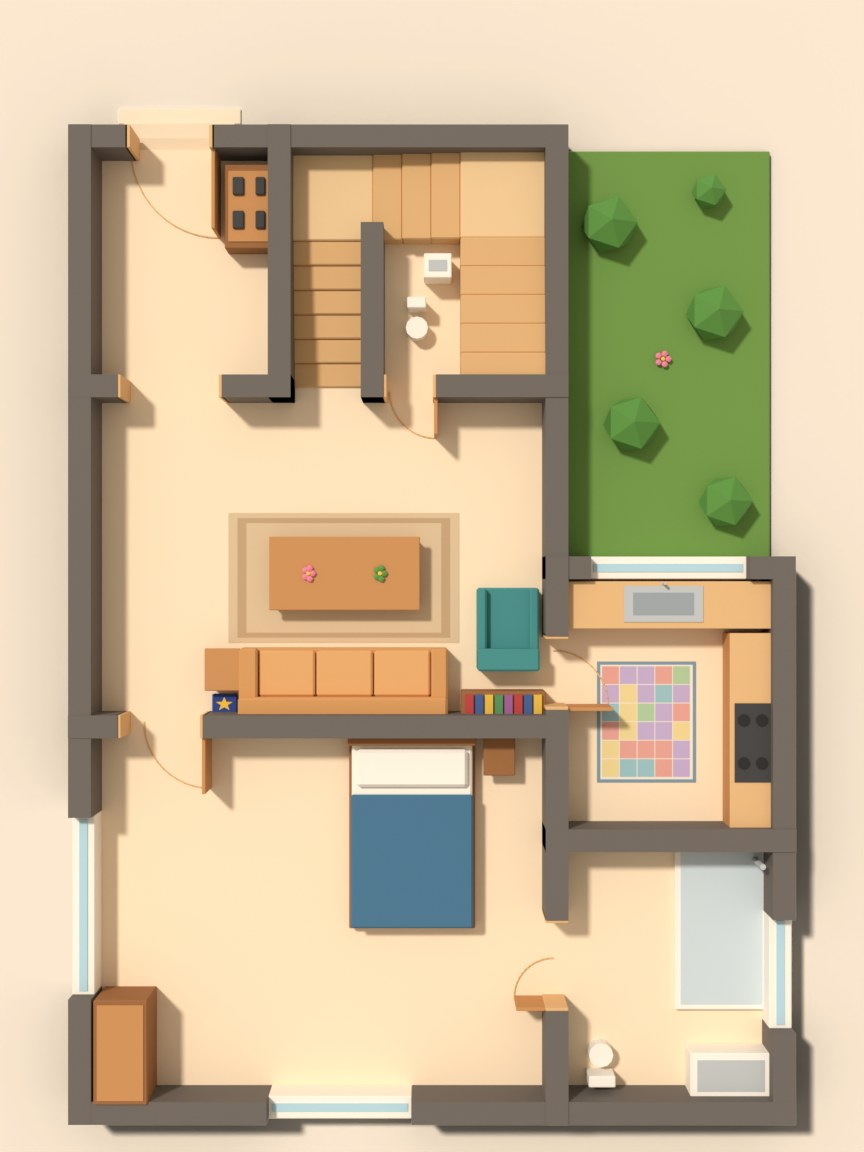
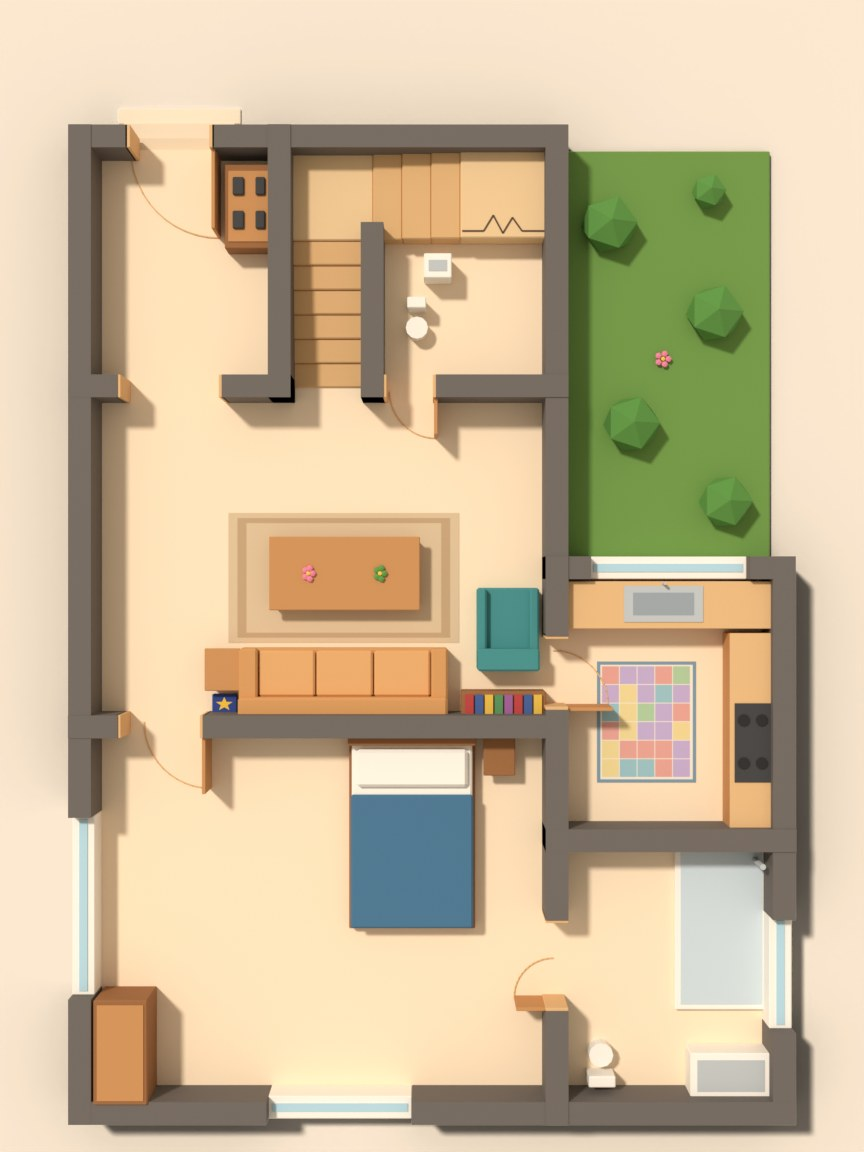
NES: floor-1 map drawn as a plan cut - last stair run left out with a break line, guest bath under the stairs fully visible

Changed region(s): [[0.5, 0.1875, 0.6562, 0.3438]]

diff --git a/games/never-ending-story/src/modules/cutscene/registry.ts b/games/never-ending-story/src/modules/cutscene/registry.ts
@@ -51,7 +51,7 @@ export const ARTWORKS: Artwork[] = [
     characterIds: [],
     prompt: `${STYLE} Top-down clay miniature floor plan of the ground floor of Grandma's modern two-storey house on cream paper, no labels. L-shaped footprint, top of the image is the front. Front door with steps at the left of the top wall into an entrance hall with a shoe rack (top-left). Stairs in the top middle, 0.9 m wide: the foot opens into the middle of the living room's front wall, run 1 (6 treads) climbs toward the front, a flat corner landing, run 2 (3 treads) to the right along the front wall, a second flat landing in the front-right corner, run 3 (5 treads) climbs toward the back; 15 risers. A small guest toilet under runs 2-3, its door right beside the stair foot. An open lawn garden with round bushes beside the house at the top-right (no building there). Living room across the middle: rug, coffee table with two flowers, tan sofa against the back wall facing the front, side table with the blue star box on its left, teal armchair on its right, low bookshelf by the kitchen door. Grandma's bedroom across the back-left, door at the left end of the living room's back wall, bed with its head on the top wall, wardrobe bottom-left, windows on the left and bottom walls. Right wing: kitchen entered from a door near the back of the living room's right wall (counter and sink under a window along its top wall looking onto the garden, stove counter along its right wall, patterned rug by the door), and below it Grandma's en-suite of the same depth, opened only from her bedroom. Used as the house plan and as the case-challenge jigsaw photo.`,
     negative: `${NEGATIVE}, text, labels, letters`,
-    styleNotes: `Generated 2026-11-22 for house v2 phase 1 (docs/design/house-v2-proposal.md). Relaid out 2026-11-23 to the owner-approved L footprint (draft v9): rendered 2026-11-23 as a low-poly clay 3D scene in Blender (top-down camera, soft sun shadows, cream paper) built on the exact layout grid, so walls, doors and windows match the approved plan and stay aligned with the tap spots. Room cameras stand at the door looking in: living-wide looks from the stair foot toward the back (kitchen door on the left of the picture, Grandma's door on the right); kitchen-wide looks from its door toward the right wing's far wall (window and sink on the left = garden side, Grandma's en-suite side on the right). Map spots and the deduction zones in event-core FlowView follow this footprint. ${sheet}`,
+    styleNotes: `Generated 2026-11-22 for house v2 phase 1 (docs/design/house-v2-proposal.md). Relaid out 2026-11-23 to the owner-approved L footprint (draft v9): rendered 2026-11-23 as a low-poly clay 3D scene in Blender (top-down camera, soft sun shadows, cream paper) built on the exact layout grid, so walls, doors and windows match the approved plan and stay aligned with the tap spots. Drawn as an architectural plan cut: the last stair run (over the guest bath) is left out with a break line on the upper landing, so the bath under the stairs is fully visible. Room cameras stand at the door looking in: living-wide looks from the stair foot toward the back (kitchen door on the left of the picture, Grandma's door on the right); kitchen-wide looks from its door toward the right wing's far wall (window and sink on the left = garden side, Grandma's en-suite side on the right). Map spots and the deduction zones in event-core FlowView follow this footprint. ${sheet}`,
     promptSource: 'original',
     version: CUTSCENE_VERSION,
     order: 70,

diff --git a/games/never-ending-story/src/modules/cutscene/GDD.md b/games/never-ending-story/src/modules/cutscene/GDD.md
@@ -54,6 +54,6 @@ core >=0.6.13, character ^1.0.0 ผู้ใช้: โปรล็อก, event
 ## 13. Changelog (ผูกกับเวอร์ชันโมดูล)
 | เวอร์ชัน | แอป | การเปลี่ยนแปลง |
 |---|---|---|
-| 1.0.2 | 0.6.35 | `cutscene-01-p2.jpg` ช่องล่าง: หนูกอดย่ามะลิ (เดิมกอดแม่) ที่ประตูหน้าบ้าน ชุดและผมย่าตรงกับช่องกลาง ช่องบนและกลางคงเดิมแบบไม่บีบอัดซ้ำ `case-01.p2` เหลือตัวละคร grandma, player และแก้ `house-map.jpg` ให้ตรงมุมกล้องของแต่ละห้อง (กล้องยืนที่ประตูมองลงล่างของแผนที่ ซ้ายภาพจึงเป็นขวาแผนที่): ครัวเอาโต๊ะกินข้าวออก เคาน์เตอร์รูปตัว L ชิดผนังขวา (ซิงก์ใต้หน้าต่าง) กับผนังล่าง (เตา) พรมลายใกล้ประตูฝั่งซ้าย (สลับเตากับซิงก์ตามที่เจ้าของเกมขอ มองจากประตูครัวหน้าต่างอยู่ซ้าย ฝั่งห้องนอนย่าอยู่ขวา) ห้องนอนย่าสลับกล่องเป็นกล่องเหลืองซ้าย กล่องดาวขวา ห้องนั่งเล่นย้ายชั้นหนังสือจากผนังขวาไปชิดผนังล่างข้างโซฟา ผังห้องเดิม โซนแผนที่และจุดแตะไม่เปลี่ยน เพิ่ม `house-map-2f.jpg` แผนผังชั้น 2 (ห้องทำงานเหนือครัว ห้องลุงเมฆกับป้า) เอากล่องออกจากห้องนอนย่าใน `house-map.jpg` และกลับภาพ `kitchen-wide.jpg` กับ `kitchen-close.jpg` ซ้ายขวาตามที่เจ้าของเกมขอ ภาพครัวมุมกว้างสลับแจกันกับหม้อ แจกันไปอยู่ใต้ผ้าเช็ดมือให้ตรงกับภาพซูม วาด `house-map.jpg` และ `house-map-2f.jpg` ใหม่ตามผังบ้านทรงตัว L ที่เจ้าของอนุมัติ: สวนโล่งข้างครัว บันไดสามช่วงมีชานพักสองจุด (15 ลูกตั้ง) เริ่มกลางผนังหน้าห้องนั่งเล่นข้างประตูห้องน้ำแขก ชั้น 2 มีระเบียงหน้าซ้าย ตู้เก็บของ ห้องน้ำลุงเมฆซ้อนอยู่บนห้องน้ำย่าขนาดเท่ากัน และห้องทำงานอยู่เหนือครัวเท่านั้น กล่องดาวอยู่เหนือกล่องใบไม้บนผัง ทั้งสองชั้นเรนเดอร์เป็นโมเดล 3D โลว์โพลีสไตล์ดินปั้นแบบแผนที่เดิม ผังและจุดแตะไม่เปลี่ยน |
+| 1.0.2 | 0.6.35 | `cutscene-01-p2.jpg` ช่องล่าง: หนูกอดย่ามะลิ (เดิมกอดแม่) ที่ประตูหน้าบ้าน ชุดและผมย่าตรงกับช่องกลาง ช่องบนและกลางคงเดิมแบบไม่บีบอัดซ้ำ `case-01.p2` เหลือตัวละคร grandma, player และแก้ `house-map.jpg` ให้ตรงมุมกล้องของแต่ละห้อง (กล้องยืนที่ประตูมองลงล่างของแผนที่ ซ้ายภาพจึงเป็นขวาแผนที่): ครัวเอาโต๊ะกินข้าวออก เคาน์เตอร์รูปตัว L ชิดผนังขวา (ซิงก์ใต้หน้าต่าง) กับผนังล่าง (เตา) พรมลายใกล้ประตูฝั่งซ้าย (สลับเตากับซิงก์ตามที่เจ้าของเกมขอ มองจากประตูครัวหน้าต่างอยู่ซ้าย ฝั่งห้องนอนย่าอยู่ขวา) ห้องนอนย่าสลับกล่องเป็นกล่องเหลืองซ้าย กล่องดาวขวา ห้องนั่งเล่นย้ายชั้นหนังสือจากผนังขวาไปชิดผนังล่างข้างโซฟา ผังห้องเดิม โซนแผนที่และจุดแตะไม่เปลี่ยน เพิ่ม `house-map-2f.jpg` แผนผังชั้น 2 (ห้องทำงานเหนือครัว ห้องลุงเมฆกับป้า) เอากล่องออกจากห้องนอนย่าใน `house-map.jpg` และกลับภาพ `kitchen-wide.jpg` กับ `kitchen-close.jpg` ซ้ายขวาตามที่เจ้าของเกมขอ ภาพครัวมุมกว้างสลับแจกันกับหม้อ แจกันไปอยู่ใต้ผ้าเช็ดมือให้ตรงกับภาพซูม วาด `house-map.jpg` และ `house-map-2f.jpg` ใหม่ตามผังบ้านทรงตัว L ที่เจ้าของอนุมัติ: สวนโล่งข้างครัว บันไดสามช่วงมีชานพักสองจุด (15 ลูกตั้ง) เริ่มกลางผนังหน้าห้องนั่งเล่นข้างประตูห้องน้ำแขก ชั้น 2 มีระเบียงหน้าซ้าย ตู้เก็บของ ห้องน้ำลุงเมฆซ้อนอยู่บนห้องน้ำย่าขนาดเท่ากัน และห้องทำงานอยู่เหนือครัวเท่านั้น กล่องดาวอยู่เหนือกล่องใบไม้บนผัง ทั้งสองชั้นเรนเดอร์เป็นโมเดล 3D โลว์โพลีสไตล์ดินปั้นแบบแผนที่เดิม ชั้น 1 ตัดบันไดช่วงสุดท้ายออกแบบแปลนสถาปัตย์ (มีเส้นตัดบนชานพัก) ให้เห็นห้องน้ำใต้บันไดเต็มห้อง ผังและจุดแตะไม่เปลี่ยน |
 | 1.0.1 | 0.6.34 | วาด `cutscene-01-p2.jpg` ใหม่เป็นบ้านสมัยใหม่สองชั้นตอนเช้า (เดิมเป็นเรือนไม้ใต้ถุนสูงตอนเย็น) ตัวละครชุดเดิม และวาด `house-map.jpg` ใหม่ ทางเข้าอยู่ด้านบน โซฟาชิดผนังล่างของห้องนั่งเล่น มีบันไดกับห้องน้ำแถวหน้า ห้องซ้ายล่างเป็นห้องนอนย่า สัดส่วน 3:4 เท่าเดิม พรอมต์ของสองภาพนี้เป็น `original` |
 | 1.0.0 | 0.6.13 | ทะเบียนภาพฉากที่ใช้จริง พรอมต์เขียนใหม่จากภาพ |
